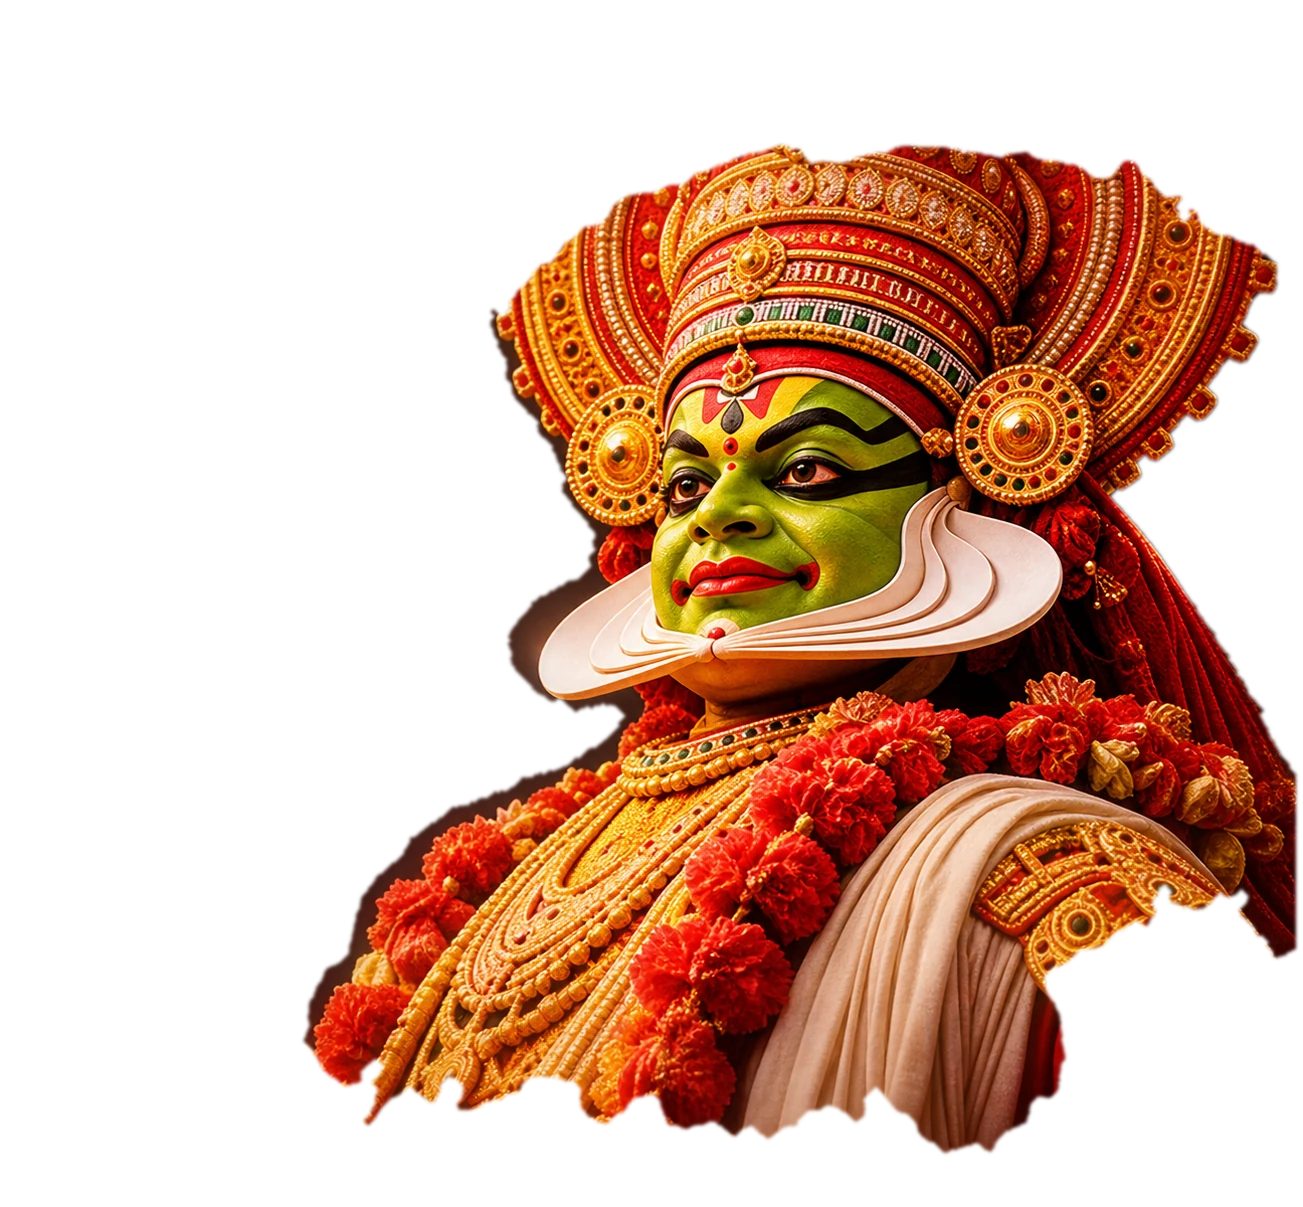
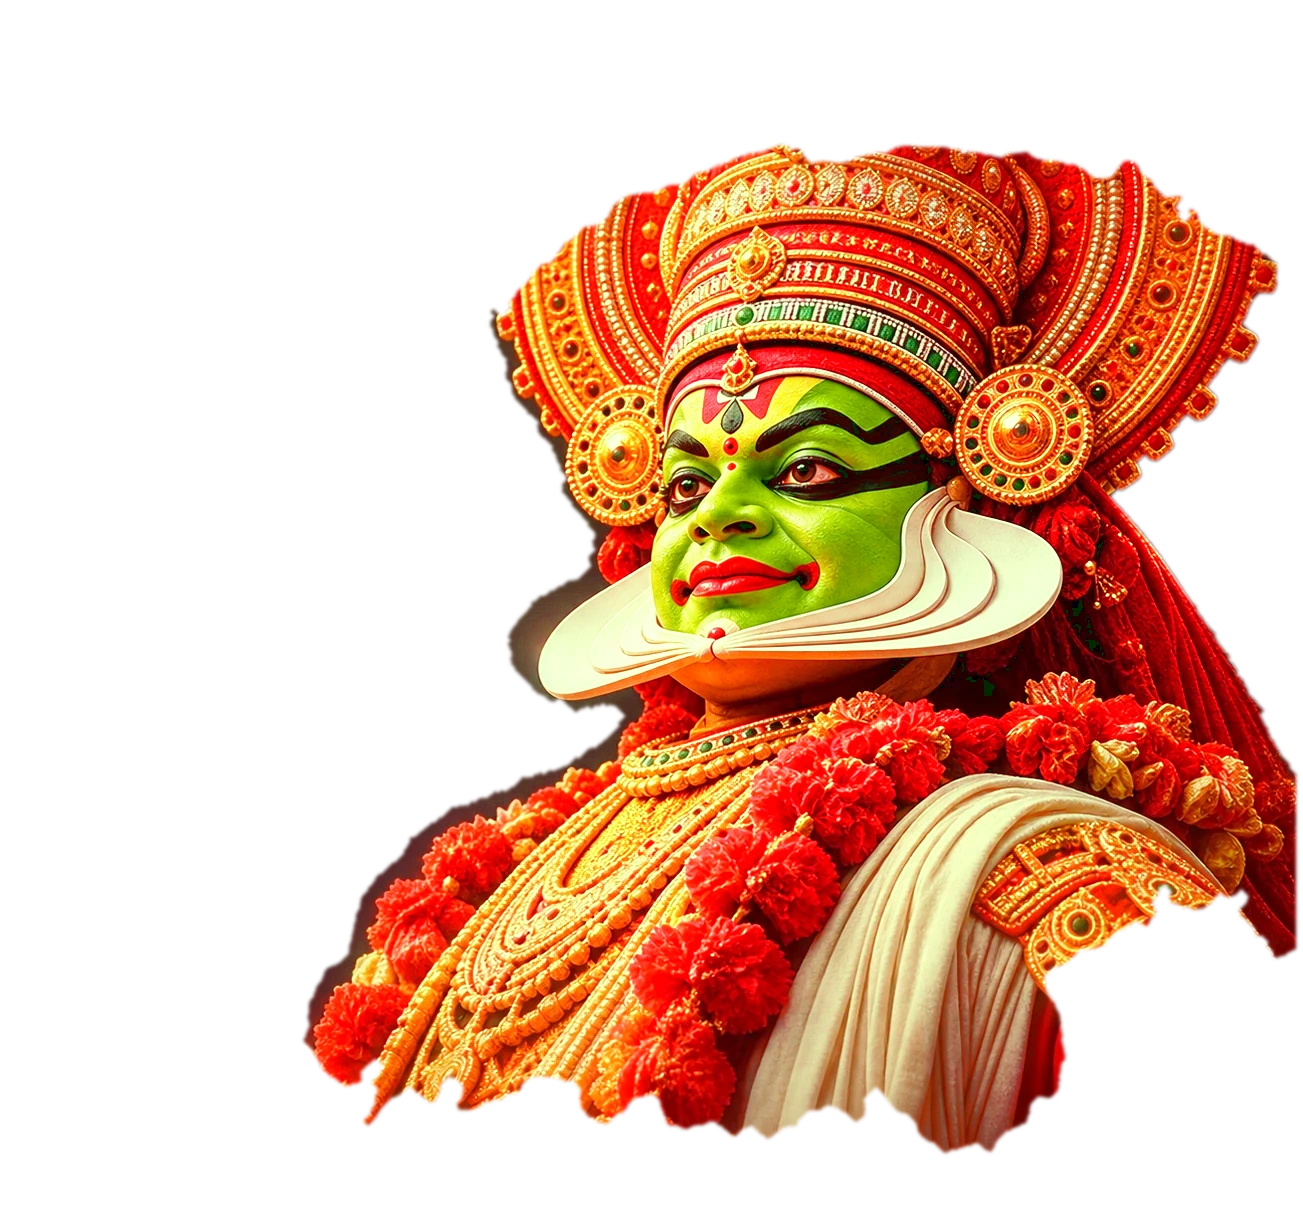
feat(hero): bring vibrant spotlight focus and radiant golden atmosphere to Kathakali light hero

diff --git a/src/app/hero-depth.css b/src/app/hero-depth.css
@@ -11,9 +11,12 @@
   --ease: cubic-bezier(.2, .7, .2, 1); --stageH: clamp(360px, 118vw, 600px);
   min-height: clamp(660px, 100svh, 940px);
   align-items: flex-start;
-  background: #04201c;
+  position: relative;
+  isolation: isolate;
+  background: radial-gradient(110% 90% at 75% 35%, #0f4d40 0%, #082d25 50%, #031814 100%);
 }
-.lt-hero.dh .hero-stage { container-type: size; perspective: 1500px; perspective-origin: 62% 42%; z-index: -2; }
+.lt-hero.dh .hero-stage { container-type: size; perspective: 1500px; perspective-origin: 62% 42%; z-index: 1; }
+.lt-hero.dh .hero-stage::after { display: none !important; }
 .lt-hero.dh .stage-3d {
   inset: 0; transform-style: preserve-3d; will-change: transform;
   transform: rotateY(calc(var(--dx) * -1.3deg)) rotateX(calc(var(--dy) * .9deg));
@@ -29,7 +32,7 @@
 }
 .lt-hero.dh .sun-pool {
   position: absolute; left: 50.5%; top: 37.5%; width: 46%; aspect-ratio: 1; translate: -50% -50%;
-  background: radial-gradient(closest-side, rgba(255, 214, 140, .62), rgba(255, 150, 50, .22) 45%, transparent 72%);
+  background: radial-gradient(closest-side, rgba(255, 235, 170, .9), rgba(255, 175, 65, .38) 45%, transparent 75%);
   mix-blend-mode: screen; animation: sun-breathe 7s ease-in-out infinite alternate;
 }
 .lt-hero.dh .sun-rays {
@@ -57,26 +60,41 @@
 html.motion .lt-hero.dh .mist { animation: mist-drift2 26s ease-in-out infinite alternate; }
 @keyframes mist-drift2 { from { translate: -4% 0; } to { translate: 4% 0; } }
 
-/* 3 · KATHAKALI: turns slightly toward the pointer, lit by a torch that follows it */
+/* 3 · KATHAKALI: prominent, vibrant focal figure with warm golden backlight aura and theatrical follow-spot */
 .lt-hero.dh .d-kath {
-  right: calc(var(--u) * -0.6);
-  top: calc(var(--u) * -4.2);
+  right: calc(var(--u) * -0.5);
+  top: calc(var(--u) * -4.5);
   bottom: auto;
-  height: calc(var(--u) * 54);
+  height: calc(var(--u) * 55);
   aspect-ratio: 1303 / 1207;
   transform: translate3d(calc(var(--dx) * -18px), calc(var(--dy) * -9px + var(--ds) * .05px), 30px) rotateY(calc(var(--dx) * -3deg));
-  filter: drop-shadow(-22px 18px 40px rgba(0, 0, 0, .58)) drop-shadow(0 0 32px rgba(255, 180, 80, .4));
+  filter: drop-shadow(-18px 20px 38px rgba(0, 0, 0, .45)) drop-shadow(0 0 45px rgba(255, 205, 110, .48));
+}
+.lt-hero.dh .d-kath::before {
+  content: '';
+  position: absolute;
+  inset: -12% -18%;
+  border-radius: 50%;
+  pointer-events: none;
+  z-index: -1;
+  background: radial-gradient(closest-side, rgba(255, 225, 135, 0.52) 0%, rgba(255, 175, 65, 0.25) 45%, rgba(255, 130, 30, 0.06) 70%, transparent 85%);
+  mix-blend-mode: screen;
+  filter: blur(28px);
 }
 .lt-hero.dh .kath-light {
-  position: absolute; inset: 0; mix-blend-mode: soft-light; opacity: .55; transition: opacity .5s;
-  background: radial-gradient(circle 46% at var(--lx) var(--ly), rgba(255, 230, 160, .98), transparent 72%);
-  -webkit-mask-image: var(--fig); mask-image: var(--fig); -webkit-mask-size: 100% 100%; mask-size: 100% 100%;
+  position: absolute; inset: 0;
+  mix-blend-mode: screen;
+  opacity: 0.5;
+  transition: opacity 0.4s ease;
+  background: radial-gradient(circle 50% at var(--lx, 55%) var(--ly, 40%), rgba(255, 245, 200, 0.75) 0%, rgba(255, 215, 120, 0.35) 45%, transparent 75%);
+  -webkit-mask-image: var(--fig); mask-image: var(--fig);
+  -webkit-mask-size: 100% 100%; mask-size: 100% 100%;
 }
-.lt-hero.dh.is-over .kath-light { opacity: 1; }
+.lt-hero.dh.is-over .kath-light { opacity: 0.9; }
 
-/* 4 · KASAVU SILK, lamp and hibiscus in front; its bottom edge hands over to the page below */
+/* 4 · KASAVU SILK, lamp and hibiscus in front; frames bottom edge */
 .lt-hero.dh .d-kasavu {
-  left: -1%; right: -1%; bottom: -7%; aspect-ratio: 1767 / 890;
+  left: -1%; right: -1%; bottom: -8%; aspect-ratio: 1767 / 890;
   transform: translate3d(calc(var(--dx) * -34px), calc(var(--dy) * -14px + var(--ds) * -.12px), 90px) scale(.93);
   filter: drop-shadow(0 -10px 30px rgba(0, 0, 0, .35));
 }
@@ -87,36 +105,37 @@ html.motion .lt-hero.dh .mist { animation: mist-drift2 26s ease-in-out infinite 
 }
 .lt-hero.dh .lamp-bloom {
   position: absolute; left: 9.6%; top: 37%; width: 18%; aspect-ratio: 1; translate: -50% -50%; pointer-events: none;
-  background: radial-gradient(closest-side, rgba(255, 200, 100, .75), rgba(255, 150, 40, .25) 50%, transparent 75%);
+  background: radial-gradient(closest-side, rgba(255, 235, 150, .95), rgba(255, 175, 55, .45) 48%, transparent 75%);
   mix-blend-mode: screen; animation: flame 3.2s ease-in-out infinite alternate;
 }
 .lt-hero.dh.is-lamp .lamp-bloom { opacity: 1; scale: 1.5; }
 @keyframes flame { 0% { opacity: .65; scale: .92; } 40% { opacity: 1; scale: 1.06; } 100% { opacity: .8; scale: .98; } }
 
-/* Readability scrim for the copy, vignette for the navbar, nothing over the art itself */
+/* Readability scrim for the copy, keeps text crisp while leaving the right side crystal clear */
 .lt-hero.dh .hero-bg {
-  transform: none; transition: none; z-index: -1;
-  background: linear-gradient(90deg, rgba(3, 22, 19, .78) 0%, rgba(3, 22, 19, .5) 32%, transparent 60%), linear-gradient(180deg, rgba(3, 18, 16, .55), transparent 22%);
+  position: absolute; inset: 0; transform: none; transition: none; z-index: 2; pointer-events: none;
+  background: linear-gradient(90deg, rgba(3, 24, 20, 0.72) 0%, rgba(3, 24, 20, 0.4) 36%, transparent 65%);
 }
-.lt-hero.dh .hero-bg::after { display: none; }
+.lt-hero.dh .hero-bg::after { display: none !important; }
 
 /* Copy sits clear of the lamp on the left; wording, buttons and navbar are unchanged */
 .lt-hero.dh .wrap.hero-inner {
+  position: relative; z-index: 5;
   max-width: none; margin: 0; width: 100%; padding-left: clamp(24px, 15vw, 280px); padding-right: 24px;
 }
 .lt-hero.dh .hero-copy { transform: none; transition: none; }
-.lt-hero.dh .scroll-cue { color: #fff1cf; text-shadow: 0 1px 10px rgba(0, 0, 0, .55); bottom: 22px; }
+.lt-hero.dh .scroll-cue { color: #fff1cf; text-shadow: 0 1px 10px rgba(0, 0, 0, .55); bottom: 22px; z-index: 6; }
 .lt-hero.dh .scroll-cue i { border-color: #f3c76e; }
 .lt-hero.dh .btn:focus-visible, .lt-hero.dh .scroll-cue:focus-visible { outline: 3px solid #ffe2a8; outline-offset: 4px; }
 
-/* Entrance: planes arrive from different depths once the curtain lifts (individual props, so the parallax transform is never overridden) */
-@keyframes sky-in   { from { opacity: 0; scale: 1.22; } }
-@keyframes kath-in  { from { opacity: 0; translate: 6% 4%; filter: blur(14px); } }
-@keyframes silk-in  { from { opacity: 0; translate: 0 14%; } }
+/* Entrance: planes arrive smoothly from their depths with crystal-clear focus (no blur) */
+@keyframes sky-in   { from { opacity: 0; scale: 1.14; } to { opacity: 1; scale: 1; } }
+@keyframes kath-in  { from { opacity: 0; translate: 2% 1%; } to { opacity: 1; translate: 0 0; } }
+@keyframes silk-in  { from { opacity: 0; translate: 0 8%; } to { opacity: 1; translate: 0 0; } }
 @keyframes silk-idle { from { translate: -.6% 0; } to { translate: .6% -.4%; } }
-html.motion .lt-hero.dh .d-sky img   { animation: sky-in 2.6s var(--ease) .7s backwards; }
-html.motion .lt-hero.dh .d-kath img  { animation: kath-in 2s var(--ease) 1.5s backwards; }
-html.motion .lt-hero.dh .d-kasavu img { animation: silk-in 1.8s var(--ease) 1.1s backwards, silk-idle 10s ease-in-out 3s infinite alternate; }
+html.motion .lt-hero.dh .d-sky img   { animation: sky-in 1.8s var(--ease) .4s backwards; }
+html.motion .lt-hero.dh .d-kath img  { animation: kath-in 1.4s var(--ease) .6s backwards; }
+html.motion .lt-hero.dh .d-kasavu img { animation: silk-in 1.5s var(--ease) .5s backwards, silk-idle 10s ease-in-out 2.5s infinite alternate; }
 html.motion .lt-hero.dh .sun-pool, html.motion .lt-hero.dh .sun-rays, html.motion .lt-hero.dh .water-glint { animation-delay: 0s; }
 
 /* Gold dust: keep the existing drifting motes, just lift them above the figure but under the silk */
@@ -130,7 +149,7 @@ html.motion .lt-hero.dh .sun-pool, html.motion .lt-hero.dh .sun-rays, html.motio
   .lt-hero.dh .d-kath { top: -12%; bottom: auto; height: 114%; right: -10%; }
   .lt-hero.dh .d-kasavu { left: -16%; right: auto; width: 150%; bottom: -6%; }
   .lt-hero.dh .wrap.hero-inner { padding: calc(var(--stageH) + 8px) 20px 56px !important; }
-  .lt-hero.dh .hero-bg { background: linear-gradient(180deg, rgba(3, 18, 16, .55), transparent 70px, transparent calc(var(--stageH) - 70px), #04201c calc(var(--stageH) + 24px), #04201c 100%); }
+  .lt-hero.dh .hero-bg { background: linear-gradient(180deg, rgba(3, 18, 16, .55), transparent 70px, transparent calc(var(--stageH) - 70px), #09332b calc(var(--stageH) + 24px), #09332b 100%); }
   .lt-hero.dh .scroll-cue { display: none; }
   html.motion .lt-hero.dh .stage-3d { animation: sway2 14s ease-in-out infinite alternate; }
 }
@@ -142,6 +161,7 @@ html.motion .lt-hero.dh .sun-pool, html.motion .lt-hero.dh .sun-rays, html.motio
   .lt-hero.dh .stage-3d { transform: none !important; }
 }
 
-/* Art grading: lift the painted plates so the scene reads as sunset light, not night */
-.lt-hero.dh .d-sky img { filter: brightness(1.22) saturate(1.15) contrast(1.04); }
-.lt-hero.dh .d-kath img { filter: brightness(1.10) saturate(1.24) contrast(1.08); }
+/* Art grading: vibrant, high-definition presence matching dark Theyyam's spotlight focus */
+.lt-hero.dh .d-sky img { filter: brightness(1.45) saturate(1.35) contrast(1.06); }
+.lt-hero.dh .d-kath img { filter: brightness(1.22) saturate(1.42) contrast(1.14); }
+.lt-hero.dh .d-kasavu img { filter: brightness(1.14) saturate(1.2) contrast(1.05); }
